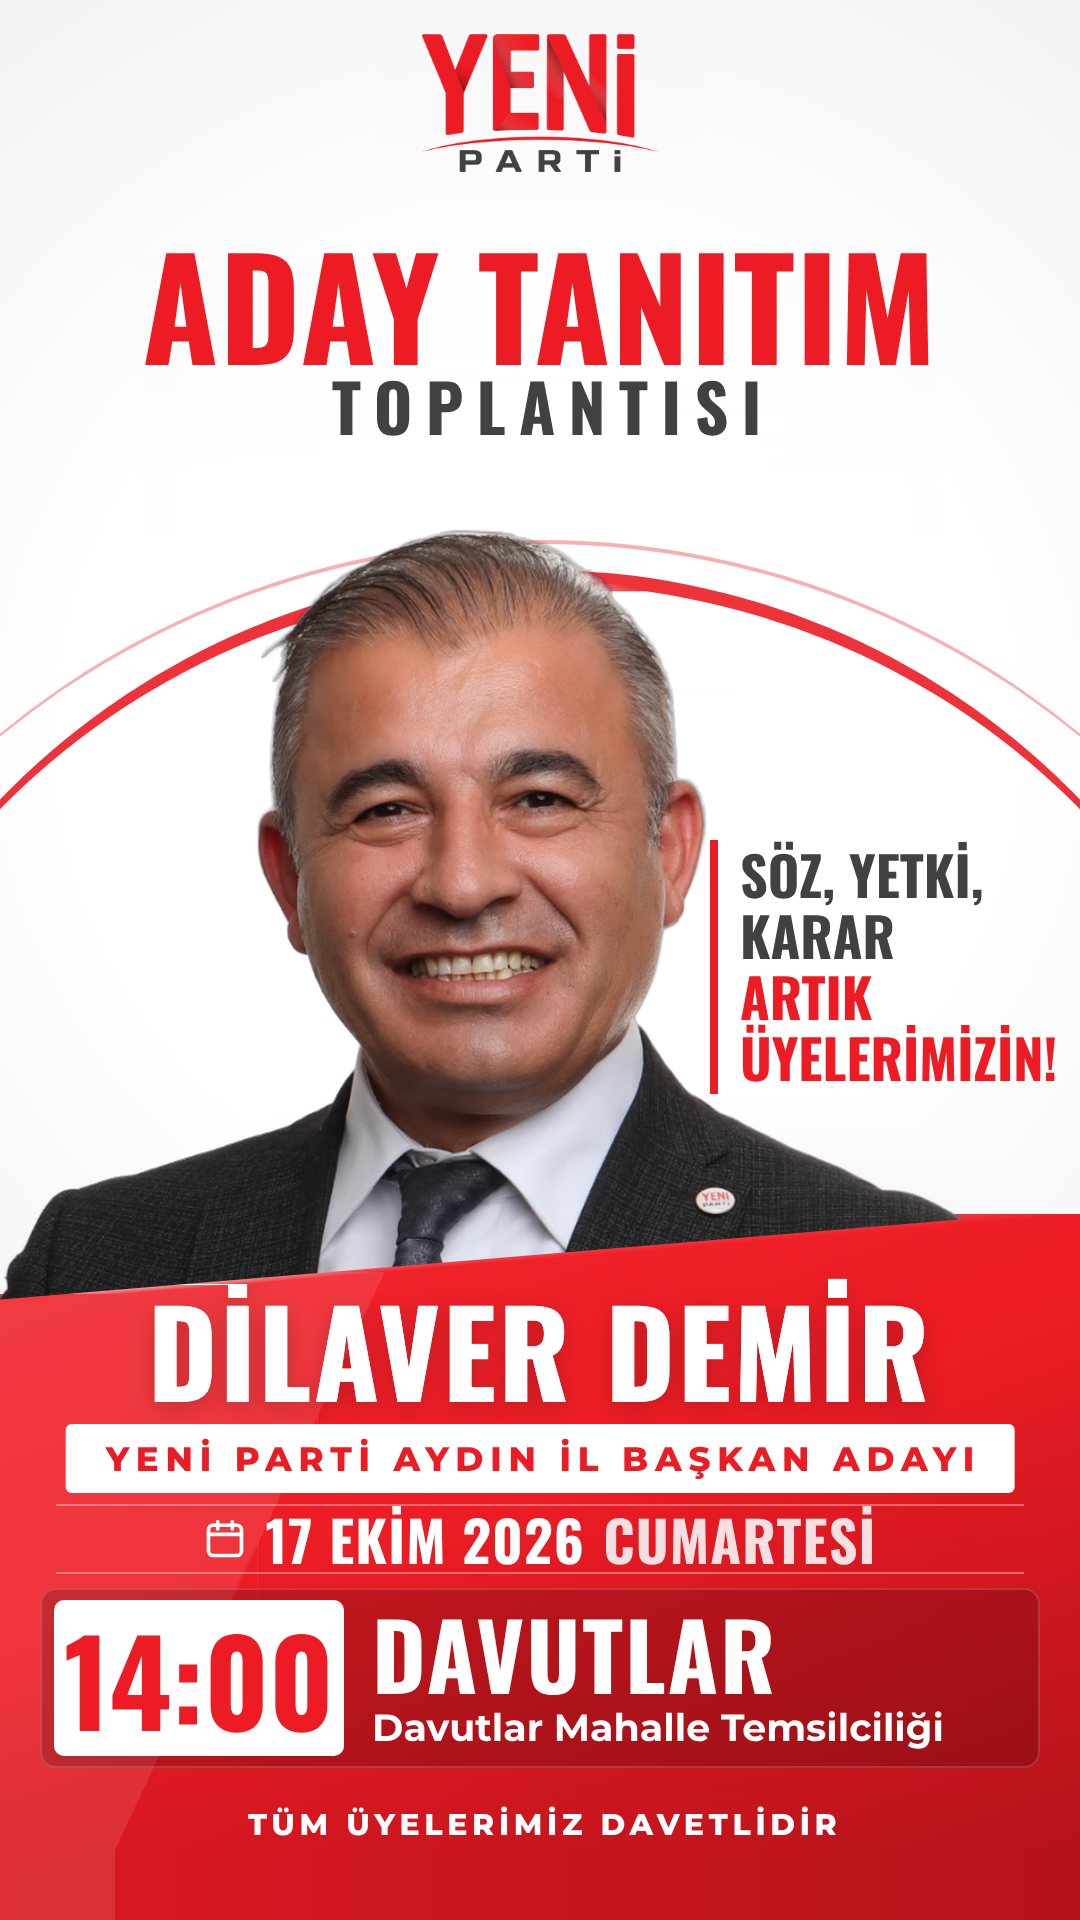
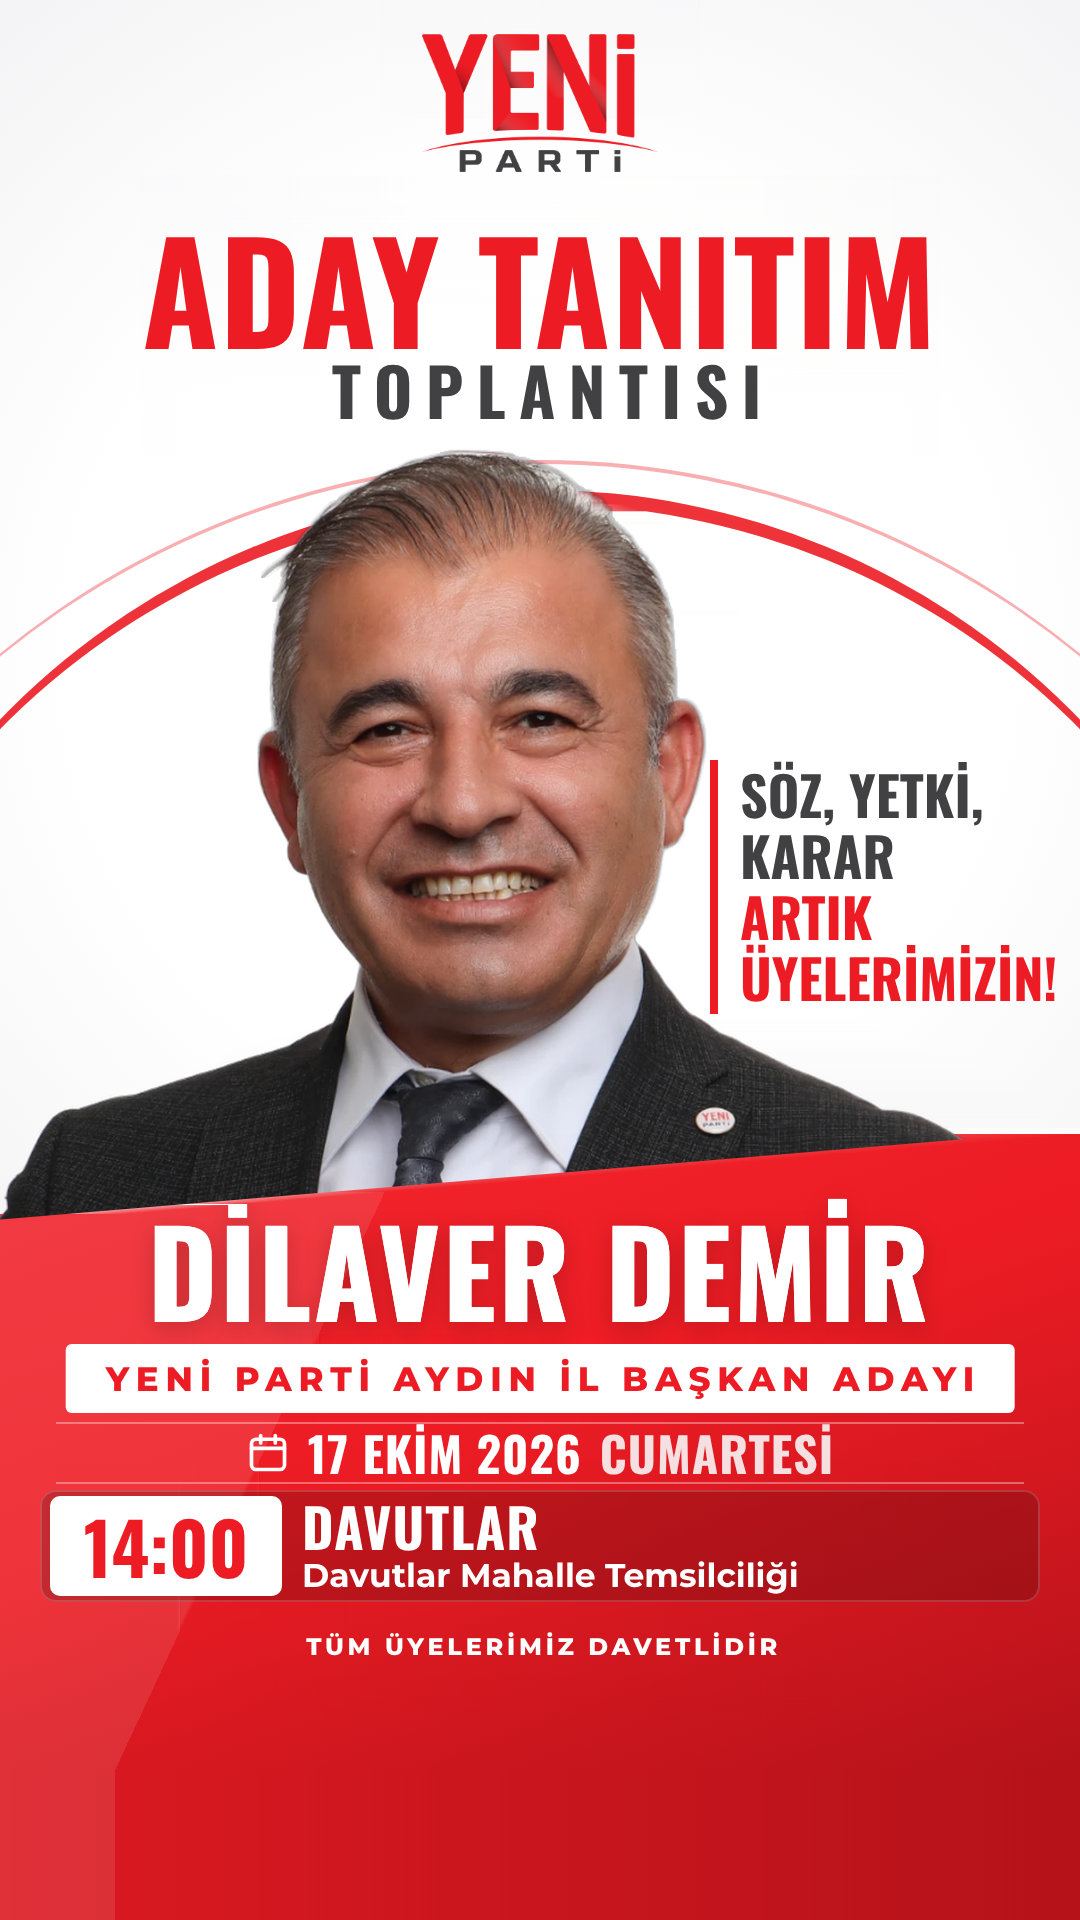
Davutlar: Karacasu-Germencik-Çine postuyla aynı düzen
Claude-Session: https://claude.ai/code/session_01SatttGbgBLoCnk9KGLypWv

diff --git a/tasarim/kisisel/incirliova-orgut/davutlar-story.html b/tasarim/kisisel/incirliova-orgut/davutlar-story.html
@@ -6,7 +6,7 @@
 @font-face{font-family:M7;src:url(../../fontlar-gecici/Montserrat-700.ttf)}
 :root{--koyu:#414042;--kirmizi:#ED1C24;--etiket:#F6DFE0}
 html,body{margin:0;width:1080px;height:1920px;overflow:hidden}
-body{position:relative;background:url(zemin-kaydir70.png) 0 0/1080px 1920px no-repeat}
+body{position:relative;background:url(zemin-kaydir.png) 0 0/1080px 1920px no-repeat}
 .m{position:absolute;left:0;width:1080px;text-align:center;white-space:nowrap;line-height:1}
 
 /* Kuşadası şablonundan ölçülen değerler */
@@ -37,8 +37,8 @@ body{position:relative;background:url(zemin-kaydir70.png) 0 0/1080px 1920px no-r
 .tarih-bant{position:absolute;left:56px;right:56px;top:1572px;height:58px;display:flex;align-items:center;justify-content:center;gap:18px;
   color:#fff;border-top:2px solid rgba(255,255,255,.35);border-bottom:2px solid rgba(255,255,255,.35)}
 .tarih-bant svg{width:44px;height:44px}
-.tarih-bant b{font:56px/1 O7;font-weight:normal;letter-spacing:.02em}
-.tarih-bant span{font:56px/1 O7;letter-spacing:.02em;color:var(--etiket)}
+.tarih-bant b{font:48px/1 O7;font-weight:normal;letter-spacing:.02em}
+.tarih-bant span{font:48px/1 O7;letter-spacing:.02em;color:var(--etiket)}
 .durak{position:absolute;left:40px;right:40px;height:122px;display:flex;align-items:center;gap:20px;
   background:rgba(0,0,0,.18);box-shadow:inset 0 0 0 2px rgba(255,255,255,.16);border-radius:16px;padding:0 24px 0 10px;box-sizing:border-box;color:#fff}
 .durak .saat{flex:none;width:232px;height:106px;background:#fff;border-radius:10px;color:var(--kirmizi);
@@ -52,20 +52,20 @@ body{position:relative;background:url(zemin-kaydir70.png) 0 0/1080px 1920px no-r
 .not{margin-left:auto;flex:none;text-align:center;font:38px/1.02 O7;letter-spacing:.03em;color:var(--kirmizi);background:#fff;border-radius:10px;padding:10px 20px}
 .vurgu{background:rgba(0,0,0,.28)!important;box-shadow:inset 0 0 0 3px rgba(255,255,255,.5)!important}
 </style>
-<body style="--slogan-ust:840px">
+<body style="--slogan-ust:760px">
 <img class="logo" src="yp-logo-kirpik.png">
 <div class="m ust" style="top:186px;visibility:hidden">ADAY TANITIM TOPLANTISI</div>
 <div class="m sehir" style="top:272px;font-size:86px;letter-spacing:1px;visibility:hidden">KARACASU <span class="ve">·</span> GERMENCİK <span class="ve">·</span> ÇİNE</div>
 <div class="slogan">SÖZ, YETKİ,<br>KARAR<em>ARTIK<br>ÜYELERİMİZİN!</em></div>
-<div class="hap" style="top:1424px"><span>YENİ PARTİ AYDIN İL BAŞKAN ADAYI</span></div>
-<div class="tarih-bant" style="top:1504px;height:66px">
+<div class="hap" style="top:1344px"><span>YENİ PARTİ AYDIN İL BAŞKAN ADAYI</span></div>
+<div class="tarih-bant" style="top:1422px">
   <svg viewBox="0 0 24 24" fill="none" stroke="#fff" stroke-width="2" stroke-linecap="round" stroke-linejoin="round">
     <rect x="3" y="4.5" width="18" height="16.5" rx="2.5"/><path d="M3 9.5h18M8 2.5v4M16 2.5v4"/></svg>
   <b>17 EKİM 2026</b><span>CUMARTESİ</span>
 </div>
-<div class="durak" style="top:1588px;height:180px;gap:28px;padding-left:14px">
-  <div class="saat" style="width:290px;height:156px;font-size:118px">14:00</div>
-  <div class="bilgi"><b style="font-size:92px">DAVUTLAR</b><span style="font-size:38px;margin-top:8px">Davutlar Mahalle Temsilciliği</span></div>
+<div class="durak" style="top:1490px;height:112px">
+  <div class="saat" style="height:100px;font-size:72px">14:00</div>
+  <div class="bilgi"><b>DAVUTLAR</b><span>Davutlar Mahalle Temsilciliği</span></div>
 </div>
-<div class="m" style="top:1806px;font:30px M8;letter-spacing:.156em;padding-left:.156em;color:#fff">TÜM ÜYELERİMİZ DAVETLİDİR</div>
+<div class="m" style="top:1632px;font:24px M8;letter-spacing:.156em;padding-left:.156em;color:#fff">TÜM ÜYELERİMİZ DAVETLİDİR</div>
 </body></html>
